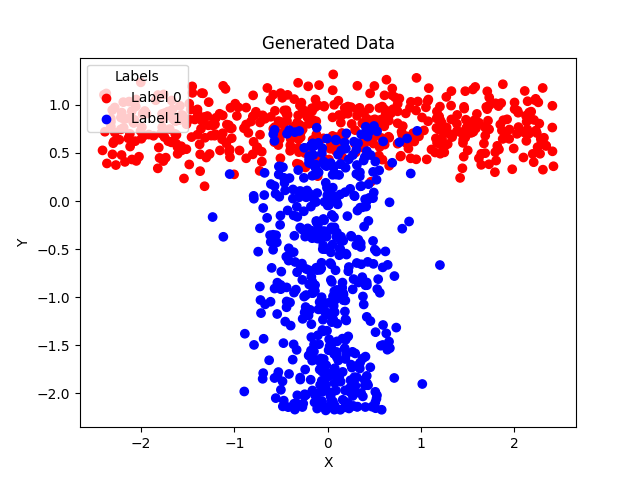
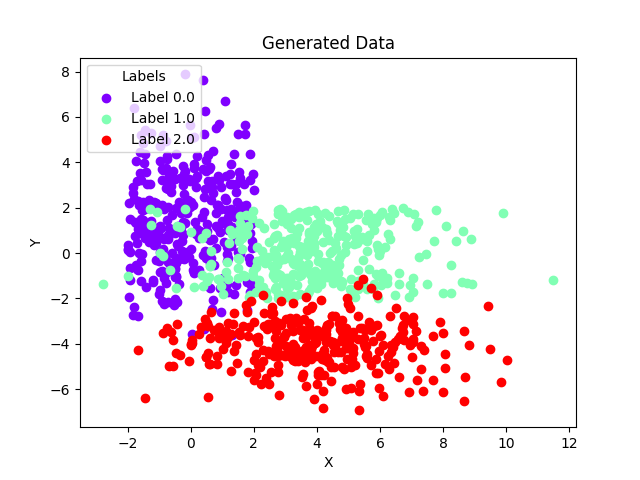
testing on stronger models and more complex data + more clusters (poor results in the more clusters and when adding noise to the important features)

diff --git a/k_means_testing/k_means_classifier.py b/k_means_testing/k_means_classifier.py
@@ -10,6 +10,8 @@ import auto_encoder_model
 import auto_encoder_with_feature_selector
 import auto_encoder_with_feature_selector_simsiam
 import auto_encoder_simsiam_with_masking
+from sklearn import svm
+
 from auto_encoder_with_feature_selector import FeatureSelector
 from vae_model import *
 
@@ -76,29 +78,58 @@ def run_kmeans(data, labels):
 
     return train_precision, val_precision
 
+def run_svm(data, labels):
+    # Create dataset and split into train and validation sets
+    valid_size = 0.3
+    train_data, val_data, train_labels, val_labels = train_test_split(data, labels, test_size=valid_size, shuffle=True,
+                                                                      stratify=labels)
+
+    # Set up model and training parameters
+    svm_model = svm.SVC()
+
+    # Train and predict
+    svm_model.fit(train_data, train_labels)
+    train_predictions = svm_model.predict(train_data)
+    val_predictions = svm_model.predict(val_data)
+
+    # Calculate the precision
+    train_precision = precision_score(train_labels, train_predictions, average='macro')
+    val_precision = precision_score(val_labels, val_predictions, average='macro')
+
+    return train_precision, val_precision
+
 
 def main():
     precision_by_run_base = []
     precision_by_run_model = []
 
-    n_trials = 100
+    n_trials = 1
+    n_samples = 1000
+    d = 5
+    d_noise = 20
+    noise = 'noise'
+    vae = False
+    pca = False
+    masked = False
+    masked_simsiam = False
+    simsiam = True
     for i in range(n_trials):
+
         # Generate data
-        n_samples = 1000
-        d = 5
-        d_noise = 20
-        noise = 'noise'
-        vae = False
-        pca = False
-        masked = False
-        masked_simsiam = False
         if noise == 'noise':
-            data, labels = get_data(n_samples=n_samples, d=d, d_noise=d_noise)
+            # data, labels = get_moons_data(n_samples=n_samples, d=d, d_noise=d_noise)
+            data, labels = get_data(n_samples=n_samples, d=d, d_noise=d_noise, three_classes=True)
+
         else:
-            data, labels = generate_data(n_samples)
+            # data, labels = generate_data(n_samples)
+            data, labels = generate_data(n_samples,three_classes=True)
+
         # clean_data, clean_labels = generate_data(n_samples)
 
-        train_precision_base, val_precision_base = run_kmeans(torch.Tensor(data), torch.Tensor(labels))
+        # train_precision_base, val_precision_base = run_kmeans(torch.Tensor(data), torch.Tensor(labels))
+        train_precision_base, val_precision_base = run_svm(torch.Tensor(data), torch.Tensor(labels))
+
+
 
         if pca:
             pca_noise = "pca_noise"
@@ -142,42 +173,42 @@ def main():
                 data = auto_encoder_model.encoder(data)
 
 
-        else:
+        elif simsiam:
             model_path = '../models/encoded_model_simsiam.pt'
             saved_data = torch.load(model_path)
             auto_encoder_model = auto_encoder_with_feature_selector_simsiam.Autoencoder(data.shape[1], saved_data['hidden_dim'])
             # Load the saved model state_dict
             auto_encoder_model.load_state_dict(saved_data['state_dict'])
 
-            # # Modify the feature selector weights
-            # weights = auto_encoder_model.feature_selector1.get_weights()
-            # # Calculate the threshold
-            # threshold = np.percentile(weights.detach().numpy(), 75)
-            # threshold_gate = torch.where(auto_encoder_model.feature_selector1.get_weights() > threshold,
-            #                              auto_encoder_model.feature_selector1.get_weights(), torch.tensor(float('-inf')))
-            # # Replace with your desired weights
-            # auto_encoder_model.feature_selector1.mu.data.copy_(threshold_gate)
-            # softmax_gate = saved_data['feature_selector_stochastic_weights1']
-            # # print("original stochastic gate1:")
-            # # print(softmax_gate)
-            # # print("new stochastic gate1")
-            # # print(auto_encoder_model.feature_selector1.hard_sigmoid(threshold_gate))
-            #
-            #
-            # # Modify the feature selector weights
-            # weights = auto_encoder_model.feature_selector2.get_weights()
-            # # Calculate the threshold
-            # threshold = np.percentile(weights.detach().numpy(), 75)
-            # threshold_gate = torch.where(auto_encoder_model.feature_selector2.get_weights() > threshold,
-            #                              auto_encoder_model.feature_selector2.get_weights(),
-            #                              torch.tensor(float('-inf')))
-            # # Replace with your desired weights
-            # auto_encoder_model.feature_selector2.mu.data.copy_(threshold_gate)
-            # softmax_gate = saved_data['feature_selector_stochastic_weights2']
-            # # print("original stochastic gate2:")
-            # # print(softmax_gate)
-            # # print("new stochastic gate2")
-            # # print(auto_encoder_model.feature_selector2.hard_sigmoid(threshold_gate))
+            # Modify the feature selector weights
+            weights = auto_encoder_model.feature_selector1.get_weights()
+            # Calculate the threshold
+            threshold = np.percentile(weights.detach().numpy(), 80)
+            threshold_gate = torch.where(auto_encoder_model.feature_selector1.get_weights() > threshold,
+                                         auto_encoder_model.feature_selector1.get_weights(), torch.tensor(float('-inf')))
+            # Replace with your desired weights
+            auto_encoder_model.feature_selector1.mu.data.copy_(threshold_gate)
+            softmax_gate = saved_data['feature_selector_stochastic_weights1']
+            print("original stochastic gate1:")
+            print(softmax_gate)
+            # print("new stochastic gate1")
+            # print(auto_encoder_model.feature_selector1.hard_sigmoid(threshold_gate))
+
+
+            # Modify the feature selector weights
+            weights = auto_encoder_model.feature_selector2.get_weights()
+            # Calculate the threshold
+            threshold = np.percentile(weights.detach().numpy(), 80)
+            threshold_gate = torch.where(auto_encoder_model.feature_selector2.get_weights() > threshold,
+                                         auto_encoder_model.feature_selector2.get_weights(),
+                                         torch.tensor(float('-inf')))
+            # Replace with your desired weights
+            auto_encoder_model.feature_selector2.mu.data.copy_(threshold_gate)
+            softmax_gate = saved_data['feature_selector_stochastic_weights2']
+            print("original stochastic gate2:")
+            print(softmax_gate)
+            # print("new stochastic gate2")
+            # print(auto_encoder_model.feature_selector2.hard_sigmoid(threshold_gate))
 
 
 
@@ -194,7 +225,9 @@ def main():
 
 
 
-        train_precision_model, val_precision_model = run_kmeans(data, labels)
+        # train_precision_model, val_precision_model = run_kmeans(torch.Tensor(data),torch.Tensor(labels))
+        train_precision_model, val_precision_model = run_svm(data, labels)
+
         precision_by_run_base.append(val_precision_base)
         precision_by_run_model.append(val_precision_model)
 
@@ -213,8 +246,12 @@ def main():
     elif masked_simsiam:
         csv_path_model = '../results/kmeans_two_centroids_precision_latent_simsiam_masekd.csv'
 
-    else:
+    elif simsiam:
         csv_path_model = '../results/kmeans_two_centroids_precision_latent_simsiam_feature_selector.csv'
+
+    else:
+        csv_path_model = '../results/simple_testing.csv'
+
 
 
 

diff --git a/two_class_data_generation.py b/two_class_data_generation.py
@@ -1,5 +1,6 @@
 import numpy as np
 import matplotlib.pyplot as plt
+from sklearn.datasets import make_moons
 from sklearn.decomposition import PCA
 from sklearn.metrics import mean_squared_error
 
@@ -43,7 +44,7 @@ def get_label_mse(X_transformed, y):
 
     return label_mses, label_combination_mses
 
-def add_random_noise(X_transformed, noise_level=0.1):
+def add_random_noise(X_transformed, noise_level=3):
     # Compute the mean and standard deviation of the data
     X_mean = np.mean(X_transformed, axis=0)
     X_std = np.std(X_transformed, axis=0)
@@ -102,7 +103,35 @@ def mask_data(data, mask_prob):
 
     return masked_data
 
-def generate_data(n_samples):
+def generate_data(n_samples,three_classes = False):
+
+    if three_classes:
+        group_samples = n_samples //3
+        # Generate label 0 data
+        x0 = np.random.uniform(-2, 2, group_samples)
+        y0 = np.random.normal(1.5, 2, group_samples)
+
+        # Generate label 1 data
+        x1 = np.random.normal(4, 2, group_samples)
+        y1 = np.random.uniform(-2, 2, group_samples)
+
+        # Generate label 2 data
+        x2 = np.random.normal(4, 2, group_samples)
+        y2 = np.random.normal(-4,1, group_samples)
+
+        # Combine data and labels
+        X = np.concatenate((np.stack((x0, y0), axis=-1),
+                            np.stack((x1, y1), axis=-1),
+                            np.stack((x2, y2), axis=-1)))
+
+        y = np.concatenate((np.zeros(group_samples),
+                            np.ones(group_samples),
+                            np.full(group_samples, 2)))
+        # plot_data(X, y)
+        X = (X - np.mean(X, axis=0)) / np.std(X, axis=0)
+        return X, y
+
+
     half_samples = n_samples // 2
 
     # Generate label 0 data
@@ -122,23 +151,32 @@ def generate_data(n_samples):
 
 
 def add_noise_to_data(X,d_noise):
-    noise_means = np.random.uniform(-5, 5, d_noise)
-    noise_stds = np.random.uniform(0, 2, d_noise)
+    noise_means = np.random.uniform(-2, 2, d_noise)
+    noise_stds = np.random.uniform(0, 5, d_noise)
     noise_matrix = np.random.normal(noise_means, noise_stds, size=(len(X), d_noise))
+
+
     X_noisy = np.concatenate([X, noise_matrix], axis=1)
+    # X_noisy = (X_noisy - np.mean(X_noisy, axis=0)) / np.std(X_noisy, axis=0)
+
     return X_noisy
 
 
 def plot_data(X, y):
+    labels = np.unique(y)
+    num_labels = len(labels)
+    colors = plt.cm.rainbow(np.linspace(0, 1, num_labels))
+
     fig, ax = plt.subplots()
-    ax.scatter(X[:, 0], X[:, 1], c=y, cmap='bwr')
+    for i, label in enumerate(labels):
+        mask = np.where(y == label, True, False)
+        ax.scatter(X[mask, 0], X[mask, 1], c=colors[i], label='Label {}'.format(label))
+
     ax.set_xlabel('X')
     ax.set_ylabel('Y')
     ax.set_title('Generated Data')
-    ax.legend(handles=[plt.scatter([], [], color='r', label='Label 0'),
-                        plt.scatter([], [], color='b', label='Label 1')],
-                        title='Labels',
-                        loc='upper left')
+    ax.legend(title='Labels', loc='upper left')
+
     plt.savefig('generated_data.png')
     plt.show()
 
@@ -156,8 +194,8 @@ def transform_data(X, d):
     # return transformed data and inverse transformation matrix
     return X_transformed, V
 
-def get_data(n_samples, d, d_noise):
-    X, y = generate_data(n_samples)
+def get_data(n_samples, d, d_noise,three_classes = False):
+    X, y = generate_data(n_samples,three_classes)
     X_normalized = (X - np.mean(X, axis=0)) / np.std(X, axis=0)
     X_transformed, V = transform_data(X_normalized, d=d)
     X_transformed_normalized = (X_transformed - np.mean(X_transformed, axis=0)) / np.std(X_transformed, axis=0)
@@ -168,6 +206,18 @@ def get_data(n_samples, d, d_noise):
     # print("mse before noising:")
     # print("label mses:", label_mses, " label combination mses:", label_combination_mses)
     return X_transformed_noise_concat, y
+
+def get_moons_data(n_samples, d, d_noise,noise = True):
+    X, y = make_moons(n_samples=n_samples, noise=0.1)
+    X_normalized = (X - np.mean(X, axis=0)) / np.std(X, axis=0)
+    X_transformed, V = transform_data(X_normalized, d=d)
+    X_transformed_normalized = (X_transformed - np.mean(X_transformed, axis=0)) / np.std(X_transformed, axis=0)
+    if noise:
+        # X_transformed_noise_added = add_random_noise(X_transformed, noise_level=0.5)
+        X_transformed_noise_concat = add_noise_to_data(X_transformed_normalized, d_noise)
+        return X_transformed_noise_concat, y
+
+    return X_transformed_normalized, y
 
 if __name__ == '__main__':
    X_transformed_noise_added, y = get_data(100,5,20)

diff --git a/auto_encoder_simsiam_with_masking.py b/auto_encoder_simsiam_with_masking.py
@@ -177,11 +177,11 @@ def main():
     hidden_dim = d
     model = Autoencoder(input_dim, hidden_dim)
     criterion = nn.CosineSimilarity(dim=1)
-    regularization = 0.005  # add L2 regularization
+    regularization = 0.02  # add L2 regularization
     optimizer = optim.Adagrad(model.parameters(), lr=0.001, weight_decay=regularization)
 
     # Train model
-    epochs = 50
+    epochs = 100
     device = torch.device("cuda:0" if torch.cuda.is_available() else "cpu")
     train_loss_history, valid_loss_history,best_model_state_dict = train(model, optimizer, criterion,
                                                                          train_loader, valid_loader, device,epochs=epochs)

diff --git a/auto_encoder_with_feature_selector_simsiam.py b/auto_encoder_with_feature_selector_simsiam.py
@@ -191,7 +191,9 @@ def main():
     n_samples = 100000
     d = 5
     d_noise = 20
-    data_orig, labels = get_data(n_samples=n_samples, d=d, d_noise=d_noise)
+    # data_orig, labels = get_moons_data(n_samples=n_samples, d=d, d_noise=d_noise,noise=True)
+    data_orig, labels = get_data(n_samples=n_samples, d=d, d_noise=d_noise,three_classes = True)
+
     # Create torch dataset
 
     # Create torch dataset
